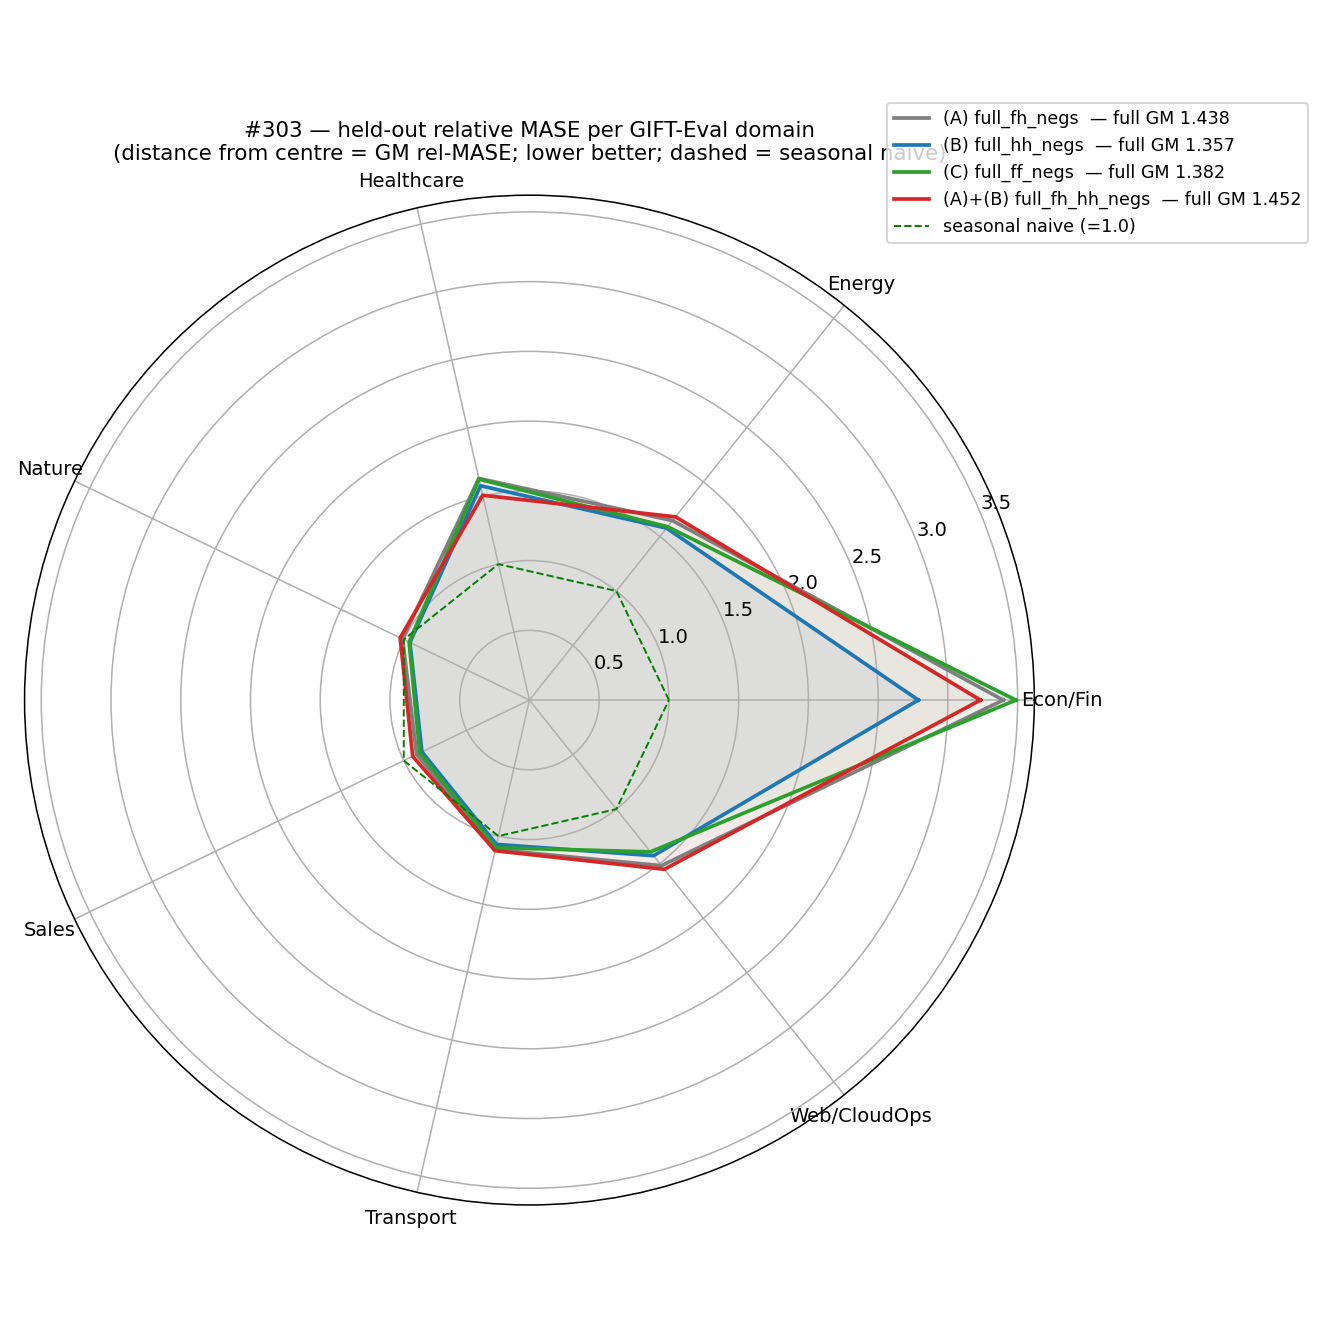
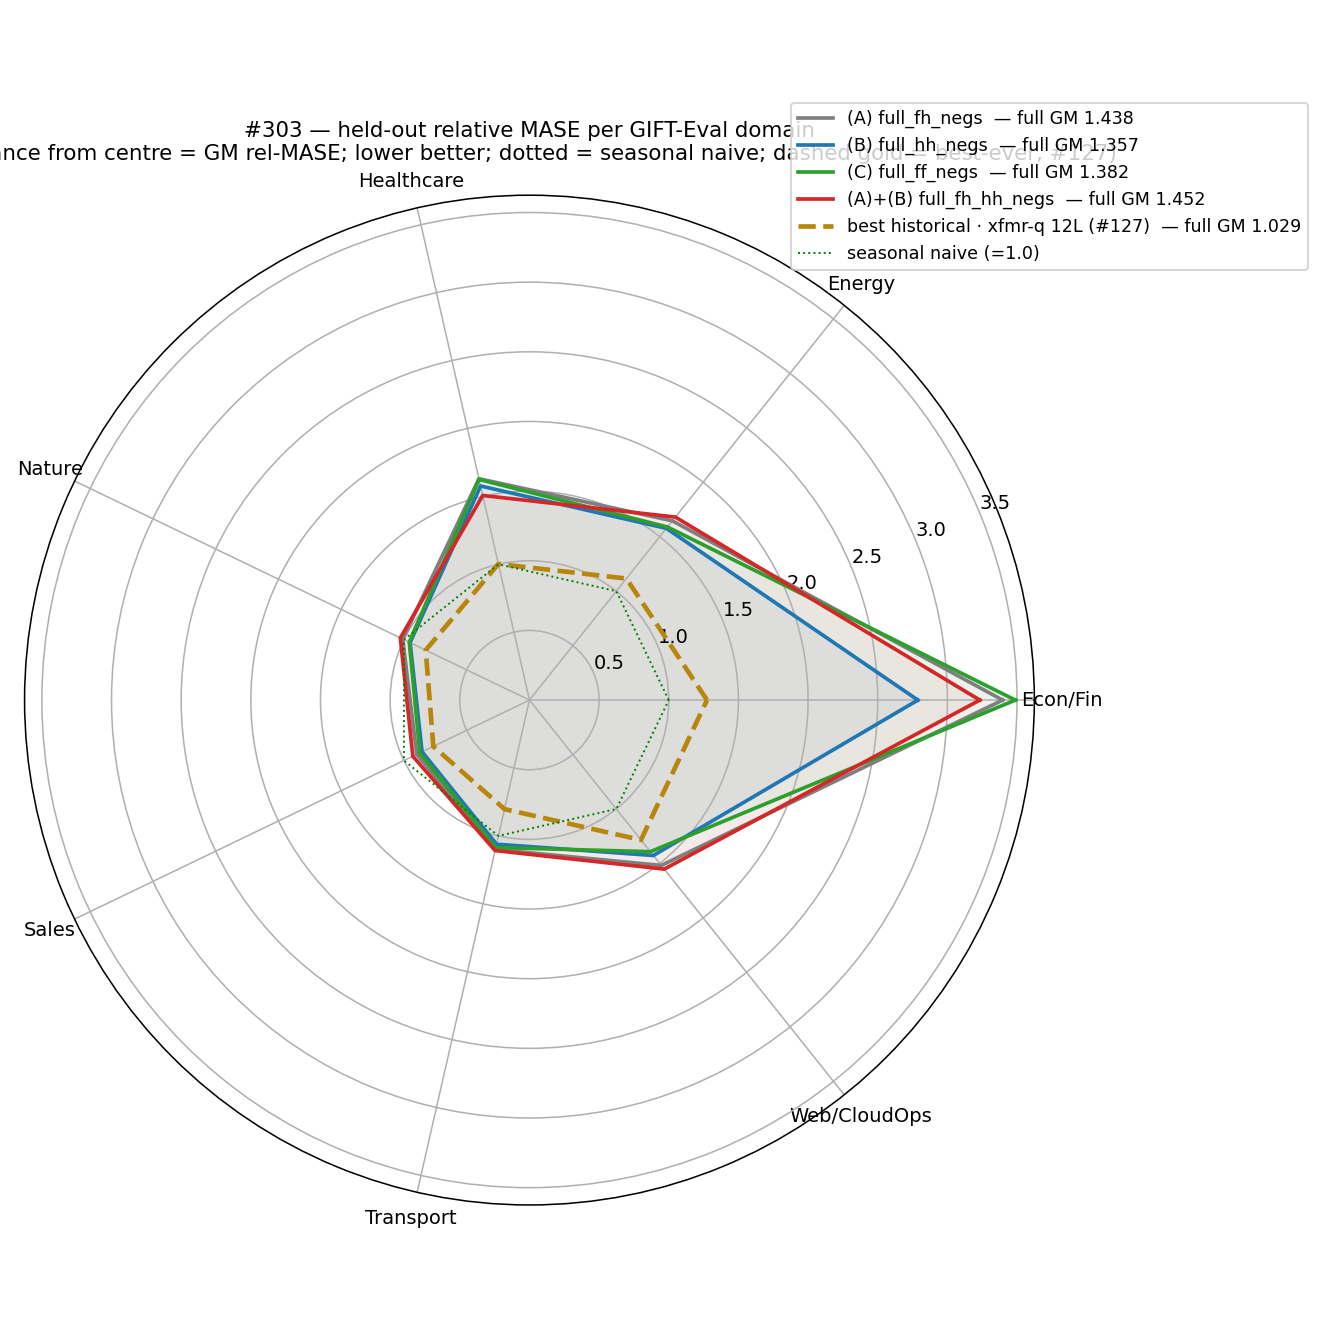
exp(#303): rebuild loss diagram (time×batch) + add best-ever reference to radar
Per user review:
- Loss diagram rebuilt: two batch lines (b, b'), each carrying f & h
  across t-2..t+2 (horizontal=time, vertical=batch). Shows positive +
  (A) fₜ↔hₗ + (B) hₜ↔hₗ + (C) fₜ↔fₗ + a cross-batch link (batch axis),
  one anchor for clarity; single channel so cross-channel omitted.
  Caption rewritten to match.
- Radar: added the project best-ever GIFT-Eval as a gold dashed
  reference — R9_E13 (xfmr-q 12L, 60k, #127; full-97 1.029), a heavier
  head on a DIFFERENT recipe (achievable frontier, not a same-recipe
  arm). Added ref rows + footnote to the held-out table (triage 0.990
  flagged optimistic vs full 1.029 per its TRIAGE_NOTE) and a
  contextual clause in What-we-learned. Radar = dotted SN, dashed gold.

diff --git a/experiments/2026-05-19_crossed_loss_ablation/scripts/plot_loss_diagram.py b/experiments/2026-05-19_crossed_loss_ablation/scripts/plot_loss_diagram.py
@@ -1,90 +1,127 @@
-"""Loss-of-record (A) `cosine_similarity_batch_full_fh_negs` — the
-fₜ↔hₗ all-time crossed negative, as a horizontal time ladder.
+"""Contrastive loss structure on a (time × batch) ladder.
 
-Deliberately NOT exhaustive (cf. the square-loss diagram): one anchor
-fₜ, its single positive, and its crossed-negative fan over l≠t+1. The
-base same-time cross-channel / cross-batch negatives are noted, not
-drawn. Siblings (B) hₜ↔hₗ and (C) fₜ↔fₗ reuse the SAME ladder with the
-anchor/target row swapped — stated in the caption, defined in the annex.
+Two batch lines (b, b′); each line carries an f (forecaster) and an h
+(encoder) node at every time t-2..t+2. Horizontal = time, vertical =
+batch. From a single anchor f_{b,t} we draw, deliberately sparse (cf.
+the square-loss diagram — not every link):
+  • positive            f_{b,t} → h_{b,t+1}
+  • (A) f↔h  l≠t+1       the loss-of-record crossed negative
+  • (B) h↔h  l≠t         encoder–encoder sibling
+  • (C) f↔f  l≠t         forecaster–forecaster sibling
+  • cross-batch b≠b′     f_{b,t} ↔ h_{b′,t+1}  (the batch axis)
+Single channel — same-time cross-channel negatives are not drawn.
 """
 import matplotlib
 matplotlib.use("Agg")
 import matplotlib.pyplot as plt
 import matplotlib.patches as mpatches
 
-fig, ax = plt.subplots(figsize=(10, 5.0))
-ax.set_xlim(0.2, 5.8)
-ax.set_ylim(0.05, 3.25)
+fig, ax = plt.subplots(figsize=(11, 7.2))
+ax.set_xlim(0.0, 6.4)
+ax.set_ylim(0.0, 9.6)
 ax.axis("off")
 
-TIMES = ["t-2", "t-1", "t", "t+1", "t+2"]
-X = {tt: i + 1 for i, tt in enumerate(TIMES)}
-Y_F, Y_H = 2.7, 0.8                       # forecaster row (top), encoder row (bottom)
-ANCHOR = "t"                              # the anchor forecast f_t
-POS = "t+1"                               # its positive target h_{t+1}
+TI = ["t-2", "t-1", "t", "t+1", "t+2"]
+X = {tt: 1.4 + 1.05 * i for i, tt in enumerate(TI)}
+# four rows: batch b group (f over h, top), batch b' group (bottom)
+Y = {"fb": 8.2, "hb": 6.6, "fB": 3.0, "hB": 1.4}
+ANCH, POS = "t", "t+1"
 
-C_POS = "#2a9d2a"      # green  — positive  f_t → h_{t+1}
-C_NEG = "#c22020"      # red    — fₜ↔hₗ crossed negative (the (A) term)
+C_POS = "#2a9d2a"   # green  positive
+C_FH  = "#c22020"   # red    (A) f↔h
+C_HH  = "#1a6ec2"   # blue   (B) h↔h
+C_FF  = "#d07000"   # orange (C) f↔f
+C_XB  = "#7a3fb3"   # purple cross-batch
 F_FACE, H_FACE = "#d0e8ff", "#ffd0d0"
-F_EDGE_A = "#d07000"   # gold edge — mark the anchor f_t
 
-def node(x, y, face, edge="#333", lw=1.6, s=560):
-    ax.scatter(x, y, s=s, zorder=5, color=face, edgecolors=edge, linewidths=lw)
+N = {}
+for tt in TI:
+    for row in Y:
+        N[(row, tt)] = (X[tt], Y[row])
 
-# crossed negatives: f_t ↔ h_l  for every l ≠ t+1 (the (A) term)
-for tt in TIMES:
-    if tt == POS:
-        continue
-    ax.annotate("", xy=(X[tt], Y_H + 0.18), xytext=(X[ANCHOR], Y_F - 0.18),
-                arrowprops=dict(arrowstyle="-", color=C_NEG, lw=1.8,
-                                alpha=0.85,
-                                connectionstyle="arc3,rad=0.06"), zorder=2)
-# positive: f_t → h_{t+1}
-ax.annotate("", xy=(X[POS], Y_H + 0.18), xytext=(X[ANCHOR], Y_F - 0.18),
-            arrowprops=dict(arrowstyle="-|>", color=C_POS, lw=3.0,
-                            connectionstyle="arc3,rad=0.06"), zorder=4)
+def link(a, b, color, lw, rad, head=False, alpha=0.9, ls="-"):
+    x0, y0 = N[a]; x1, y1 = N[b]
+    ax.annotate("", xy=(x1, y1), xytext=(x0, y0), zorder=2,
+                arrowprops=dict(arrowstyle="-|>" if head else "-",
+                                color=color, lw=lw, alpha=alpha,
+                                linestyle=ls,
+                                connectionstyle=f"arc3,rad={rad}"))
 
-# nodes + labels
-for tt in TIMES:
-    is_anchor = tt == ANCHOR
-    node(X[tt], Y_F, F_FACE,
-         edge=F_EDGE_A if is_anchor else "#333",
-         lw=3.0 if is_anchor else 1.6)
-    is_pos = tt == POS
-    node(X[tt], Y_H, H_FACE,
-         edge=C_POS if is_pos else "#333",
-         lw=3.0 if is_pos else 1.6)
-    ax.text(X[tt], Y_F + 0.34, rf"$f_{{{tt}}}$", ha="center", va="bottom",
-            fontsize=12, fontweight="bold")
-    ax.text(X[tt], Y_H - 0.34, rf"$h_{{{tt}}}$", ha="center", va="top",
-            fontsize=12, fontweight="bold")
+# ── (C) f↔f  within the f_b row, l≠t (arc above) ──
+for tt, r in (("t-1", 0.32), ("t+2", -0.32)):
+    link(("fb", ANCH), ("fb", tt), C_FF, 1.9, r)
+# ── (B) h↔h  within the h_b row, l≠t (arc below) ──
+for tt, r in (("t-1", -0.32), ("t+2", 0.32)):
+    link(("hb", ANCH), ("hb", tt), C_HH, 1.9, r)
+# ── (A) f↔h  f_{b,t} → h_{b,l}, l≠t+1 ──
+for tt, r in (("t-1", 0.10), ("t+2", -0.12)):
+    link(("fb", ANCH), ("hb", tt), C_FH, 1.9, r)
+# ── cross-batch (batch axis): f_{b,t} ↔ h_{b′,t+1}, b≠b′ ──
+link(("fb", ANCH), ("hB", POS), C_XB, 1.9, -0.06, ls=(0, (5, 3)))
+# ── positive: f_{b,t} → h_{b,t+1} ──
+link(("fb", ANCH), ("hb", POS), C_POS, 3.0, 0.0, head=True)
+# faint: batch b′ shares the identical structure (its own positive)
+link(("fB", ANCH), ("hB", POS), C_POS, 2.0, 0.0, head=True, alpha=0.28)
 
-ax.text(0.35, Y_F, "forecaster", ha="left", va="center", fontsize=9,
-        color="#666", style="italic")
-ax.text(0.35, Y_H, "encoder", ha="left", va="center", fontsize=9,
-        color="#666", style="italic")
-ax.annotate("", xy=(5.55, 1.75), xytext=(0.75, 1.75),
-            arrowprops=dict(arrowstyle="->", color="#d8d8d8", lw=1.1))
-ax.text(5.55, 1.92, "time", ha="right", fontsize=8.5, color="#bbb",
+# ── nodes ──
+for (row, tt), (x, y) in N.items():
+    face = F_FACE if row[0] == "f" else H_FACE
+    edge, lw = "#333", 1.5
+    if row == "fb" and tt == ANCH:
+        edge, lw = "#d07000", 3.0          # anchor f_{b,t}
+    if row == "hb" and tt == POS:
+        edge, lw = C_POS, 3.0              # positive target h_{b,t+1}
+    ax.scatter(x, y, s=520, zorder=5, color=face,
+               edgecolors=edge, linewidths=lw)
+
+# node labels (math), batch subscript
+SUB = {"fb": "f_{b,%s}", "hb": "h_{b,%s}",
+       "fB": "f_{b',%s}", "hB": "h_{b',%s}"}
+for (row, tt), (x, y) in N.items():
+    dy = 0.42 if row[0] == "f" else -0.42
+    va = "bottom" if row[0] == "f" else "top"
+    ax.text(x, y + dy, rf"${SUB[row] % tt}$", ha="center", va=va,
+            fontsize=10, fontweight="bold")
+
+# row / axis guides
+ax.text(0.15, (Y["fb"] + Y["hb"]) / 2, "batch  b", rotation=90,
+        ha="center", va="center", fontsize=10, color="#555",
+        fontweight="bold")
+ax.text(0.15, (Y["fB"] + Y["hB"]) / 2, "batch  b'", rotation=90,
+        ha="center", va="center", fontsize=10, color="#999",
+        fontweight="bold")
+ax.annotate("", xy=(0.62, 1.0), xytext=(0.62, 8.6),
+            arrowprops=dict(arrowstyle="<->", color="#ccc", lw=1.3))
+ax.text(0.92, 4.9, "batch axis", rotation=90, ha="center", va="center",
+        fontsize=8.5, color="#bbb", style="italic")
+ax.annotate("", xy=(6.05, 0.55), xytext=(1.1, 0.55),
+            arrowprops=dict(arrowstyle="->", color="#ccc", lw=1.2))
+ax.text(6.0, 0.78, "time", ha="right", fontsize=8.5, color="#bbb",
         style="italic")
 
 ax.set_title(
-    "Loss-of-record (A) — the fₜ↔hₗ all-time crossed negative\n"
-    r"anchor $f_t$: positive $h_{t+1}$; negatives $h_\ell\ \forall\,\ell\neq t{+}1$",
-    fontsize=11.5, pad=6)
+    "Contrastive loss — positive + crossed negatives over time & batch\n"
+    "(A) fₜ↔hₗ  ·  (B) hₜ↔hₗ  ·  (C) fₜ↔fₗ   (single channel; "
+    "same-time cross-channel negatives omitted)",
+    fontsize=11, pad=8)
 
 leg = [
-    mpatches.Patch(color=C_POS, label=r"positive  $f_t \rightarrow h_{t+1}$"),
-    mpatches.Patch(color=C_NEG,
-                   label=r"(A) crossed negative  $f_t \leftrightarrow h_\ell$,"
-                         r" $\ell\neq t{+}1$"),
+    mpatches.Patch(color=C_POS, label=r"positive  $f_{b,t}\!\to\!h_{b,t+1}$"),
+    mpatches.Patch(color=C_FH,  label=r"(A) $f_t\!\leftrightarrow\!h_\ell$,"
+                                      r" $\ell\neq t{+}1$"),
+    mpatches.Patch(color=C_HH,  label=r"(B) $h_t\!\leftrightarrow\!h_\ell$,"
+                                      r" $\ell\neq t$"),
+    mpatches.Patch(color=C_FF,  label=r"(C) $f_t\!\leftrightarrow\!f_\ell$,"
+                                      r" $\ell\neq t$"),
+    mpatches.Patch(color=C_XB,  label=r"cross-batch  $f_{b,t}\!\leftrightarrow\!"
+                                      r"h_{b',t+1}$, $b\neq b'$"),
 ]
-ax.legend(handles=leg, loc="lower center", ncol=2, fontsize=9,
-          framealpha=0.95, edgecolor="#ccc", bbox_to_anchor=(0.5, -0.16))
-ax.text(0.5, -0.30,
-        "Base same-time cross-channel & cross-batch negatives omitted for "
-        "clarity (annex).  Siblings reuse this ladder: (B) swaps the anchor "
-        r"row → $h_t\!\leftrightarrow\!h_\ell$;  (C) → $f_t\!\leftrightarrow\!f_\ell$.",
+ax.legend(handles=leg, loc="lower center", ncol=3, fontsize=8.6,
+          framealpha=0.95, edgecolor="#ccc", bbox_to_anchor=(0.5, -0.13))
+ax.text(0.5, -0.205,
+        "Links drawn from one anchor $f_{b,t}$ for clarity (the loss sums "
+        "them over all anchors). A = loss-of-record; B, C = the siblings; "
+        "cross-batch is shared by every arm.",
         transform=ax.transAxes, ha="center", va="top", fontsize=8.2,
         color="#777")
 

diff --git a/experiments/2026-05-19_crossed_loss_ablation/scripts/plot_results.py b/experiments/2026-05-19_crossed_loss_ablation/scripts/plot_results.py
@@ -94,35 +94,52 @@ def agg_gm(sum_txt):
     return None
 
 
-radar = []  # (label, colour, {domain: gm})
+radar = []  # (label, colour, {domain: gm}, agg_gm, linestyle)
 for lab, col, _, edir in ARMS:
     g = rel_by_domain(f"{edir}/summary.txt", dom_map(f"{edir}/all_results.csv"))
     if g:
-        radar.append((lab, col, g, agg_gm(f"{edir}/summary.txt")))
+        radar.append((lab, col, g, agg_gm(f"{edir}/summary.txt"), "-"))
+
+# Reference: the project's best-ever GIFT-Eval (full-97) — #127's q-head
+# sweep winner R9_E13 (xfmr-q 12L, e_then_f, 60k; a heavier head on a
+# DIFFERENT recipe, NOT a same-recipe #303 arm — shown as the achievable
+# frontier). Its triage 0.990 was optimistic vs full 1.029 (their
+# TRIAGE_NOTE); full-97 is what we plot.
+REF_DIR = ("/home/jupyter/contrastive-forecasting/experiments/"
+           "2026-05-05_exp_qhead_improvements/results/"
+           "R9_E13_xfmr12L_quant_moirai_cosine_e_then_f_60k_full")
+gref = rel_by_domain(f"{REF_DIR}/summary.txt", dom_map(f"{REF_DIR}/all_results.csv"))
+if gref:
+    radar.append(("best historical · xfmr-q 12L (#127)", "#b8860b",
+                  gref, agg_gm(f"{REF_DIR}/summary.txt"), "--"))
 
 if radar:
-    doms = sorted(set().union(*[set(g) for _, _, g, _ in radar]))
+    doms = sorted(set().union(*[set(g) for _, _, g, _, _ in radar]))
     ang = np.linspace(0, 2 * np.pi, len(doms), endpoint=False).tolist()
     ang += ang[:1]
     fig = plt.figure(figsize=(9.5, 9.5))
     ax = plt.subplot(111, polar=True)
-    for lab, col, g, gm in radar:
+    for lab, col, g, gm, lsty in radar:
         v = [g.get(d, np.nan) for d in doms] + [g.get(doms[0], np.nan)]
         tag = f"{lab}" + (f"  — full GM {gm:.3f}" if gm else "")
-        ax.plot(ang, v, lw=1.9, label=tag, color=col)
-        ax.fill(ang, v, alpha=.06, color=col)
-    ax.plot(ang, [1.0] * len(ang), lw=1.0, ls="--", color="green",
+        ref = lsty == "--"
+        ax.plot(ang, v, lw=2.4 if ref else 1.9, ls=lsty, label=tag,
+                color=col)
+        if not ref:
+            ax.fill(ang, v, alpha=.06, color=col)
+    ax.plot(ang, [1.0] * len(ang), lw=1.0, ls=":", color="green",
             label="seasonal naive (=1.0)")
     ax.set_xticks(ang[:-1])
     ax.set_xticklabels(doms, fontsize=10)
     ax.set_title("#303 — held-out relative MASE per GIFT-Eval domain\n"
                  "(distance from centre = GM rel-MASE; lower better; "
-                 "dashed = seasonal naive)", fontsize=11)
+                 "dotted = seasonal naive; dashed gold = best-ever, #127)",
+                 fontsize=11)
     ax.legend(loc="upper right", bbox_to_anchor=(1.28, 1.10), fontsize=9)
     fig.tight_layout()
     fig.savefig(f"{OUT}/perdomain_star.png", dpi=140)
     print("radar arms:", [(l, round(gm, 4) if gm else None)
-                          for l, _, _, gm in radar])
+                          for l, _, _, gm, _ in radar])
 else:
     print("radar SKIPPED — no full-eval summaries yet")
 

diff --git a/experiments/2026-05-19_crossed_loss_ablation/RESULTS.md b/experiments/2026-05-19_crossed_loss_ablation/RESULTS.md
@@ -17,11 +17,15 @@ needs multiple seeds — see Follow-up). Not the whole gap: best (B,
 bottleneck/dropkey/precision confound.
 
 ![Per-domain relative MASE — A, B, C, A+B](plots/perdomain_star.png)
-*Per GIFT-Eval domain; distance from centre = GM relative MASE, dashed
-hexagon = seasonal naive (1.0), lower = better. (B) (blue) sits inside
-(A) (grey) on all seven domains; the geomean is dominated by **Econ/Fin**
-(A 3.40 → B 2.79), the same single-domain driver #300 flagged. Only
-**Sales** (B 0.855) and **Nature** (B 0.951) beat seasonal naive.*
+*Radar chart, one spoke per GIFT-Eval domain; distance from centre = GM
+relative MASE, lower = better; dotted green = seasonal naive (1.0).
+(B) (blue) sits inside (A) (grey) on all seven domains; the geomean is
+dominated by **Econ/Fin** (A 3.40 → B 2.79), the same single-domain
+driver #300 flagged; only **Sales** (B 0.855) and **Nature** (B 0.951)
+beat seasonal naive. The **gold dashed** ring is the project's best-ever
+GIFT-Eval (R9_E13, #127 — a heavier 12L q-head on a different recipe,
+full GM 1.029): it sits well inside every #303 arm on every domain —
+the achievable frontier this loss line is still far from.*
 
 **Held-out GM-Relative MASE** (official GIFT-Eval; standard 2L causal
 q-head trained 30k on each backbone; 1.0 = seasonal naive, lower better):
@@ -32,7 +36,15 @@ q-head trained 30k on each backbone; 1.0 = seasonal naive, lower better):
 | **(B)** `full_hh_negs` | hₜ↔hₗ ∀ l≠t | 1.4461 | **1.3572** | **−5.6 %** |
 | **(C)** `full_ff_negs` | fₜ↔fₗ ∀ l≠t | 1.5185 | **1.3822** | −3.9 % |
 | **(A)+(B)** `full_fh_hh_negs` | both | 1.5426 | **1.4517** | +1.0 % |
-| v11c (prior best) / seasonal-naive | — | — | 1.292 / 1.000 | — |
+| *ref:* v11c (bneck-fullfh prior best) / seasonal-naive | — | — | 1.292 / 1.000 | — |
+| *ref:* best-ever R9_E13 (xfmr-q 12L, 60k, #127)† | — | 0.990† | **1.029** | — |
+
+†R9_E13 is a heavier 12-layer quantile q-head on a *different* recipe —
+the project's best-ever GIFT-Eval, the achievable frontier, **not** a
+same-recipe #303 arm. Its triage 0.990 (apparently < 1.0) was optimistic
+vs the trusted full-97 **1.029** (its own TRIAGE_NOTE) — it does not beat
+seasonal naive in aggregate either, but comes far closer than any
+bottleneck-fullfh arm.
 
 Single seed per arm (matched to (A) for a clean one-variable contrast);
 triage (11-cfg) is ≈7–10 % noisy (#296), full-97 is the trusted metric.
@@ -84,12 +96,16 @@ independently re-audited positive-free
 ([`scripts/verify_A_positive_exclusion.py`](scripts/verify_A_positive_exclusion.py),
 all PASS). Wall-clock in the back annex.
 
-![Loss-of-record (A): the fₜ↔hₗ all-time crossed negative](plots/loss_diagram.png)
-*The loss-of-record A on a time ladder: anchor fₜ has one positive
-(h_{t+1}, green) and is pushed from the encoder hₗ at every other l (red,
-the **fₜ↔hₗ** term). Siblings reuse the same ladder — (B) swaps the
-anchor row to hₜ↔hₗ, (C) to fₜ↔fₗ (annex). Base same-time cross-channel
-& cross-batch negatives (shared by all arms) omitted for clarity.*
+![Contrastive loss structure over time & batch](plots/loss_diagram.png)
+*The contrastive structure on a (time × batch) ladder — horizontal =
+time, vertical = batch (two batch lines b, b′; each carries an f and an
+h node per step). From one anchor f_{b,t}: the positive h_{b,t+1}
+(green); the loss-of-record's **(A) fₜ↔hₗ** all-time crossed negative
+(red, l≠t+1); the swapped siblings **(B) hₜ↔hₗ** (blue, l≠t) and **(C)
+fₜ↔fₗ** (orange, l≠t); and a cross-batch negative (purple, b≠b′) — the
+batch axis, shared by every arm. Single channel, so same-time
+cross-channel negatives don't exist here; links shown from one anchor
+for clarity (the loss sums over all).*
 
 ## What we learned
 
@@ -101,9 +117,12 @@ anchor row to hₜ↔hₗ, (C) to fₜ↔fₗ (annex). Base same-time cross-chan
    transfer, not training fit (echoes #296).
 2. **fₜ↔hₗ is an isolated, harmful contributor — not the whole gap.** B
    beats A in all 7 domains and A+B collapsing back to ≈A pins fₜ↔hₗ as
-   the culprit; yet best (B, 1.357) is still ≈5% above v11c (1.292),
-   beating seasonal naive only in Sales/Nature, so the residual stays in
-   #296's bottleneck/dropkey/precision confound. *(Hypothesis, not
+   the culprit; yet best (B, 1.357) is still ≈5% above v11c (1.292) and
+   far from the project best-ever (R9_E13, full 1.029, a heavier 12L
+   q-head on a different recipe — radar gold), beating seasonal naive
+   only in Sales/Nature. The crossed-loss choice is a small lever inside
+   a line that is itself well off the achievable frontier; the residual
+   stays in #296's bottleneck/dropkey/precision confound. *(Hypothesis, not
    measured: fₜ↔hₗ penalises the forecast for resembling nearby-in-time
    encoder states it legitimately should resemble in autocorrelated
    series; the same-modality hₜ↔hₗ / fₜ↔fₗ spreads do not.)*
